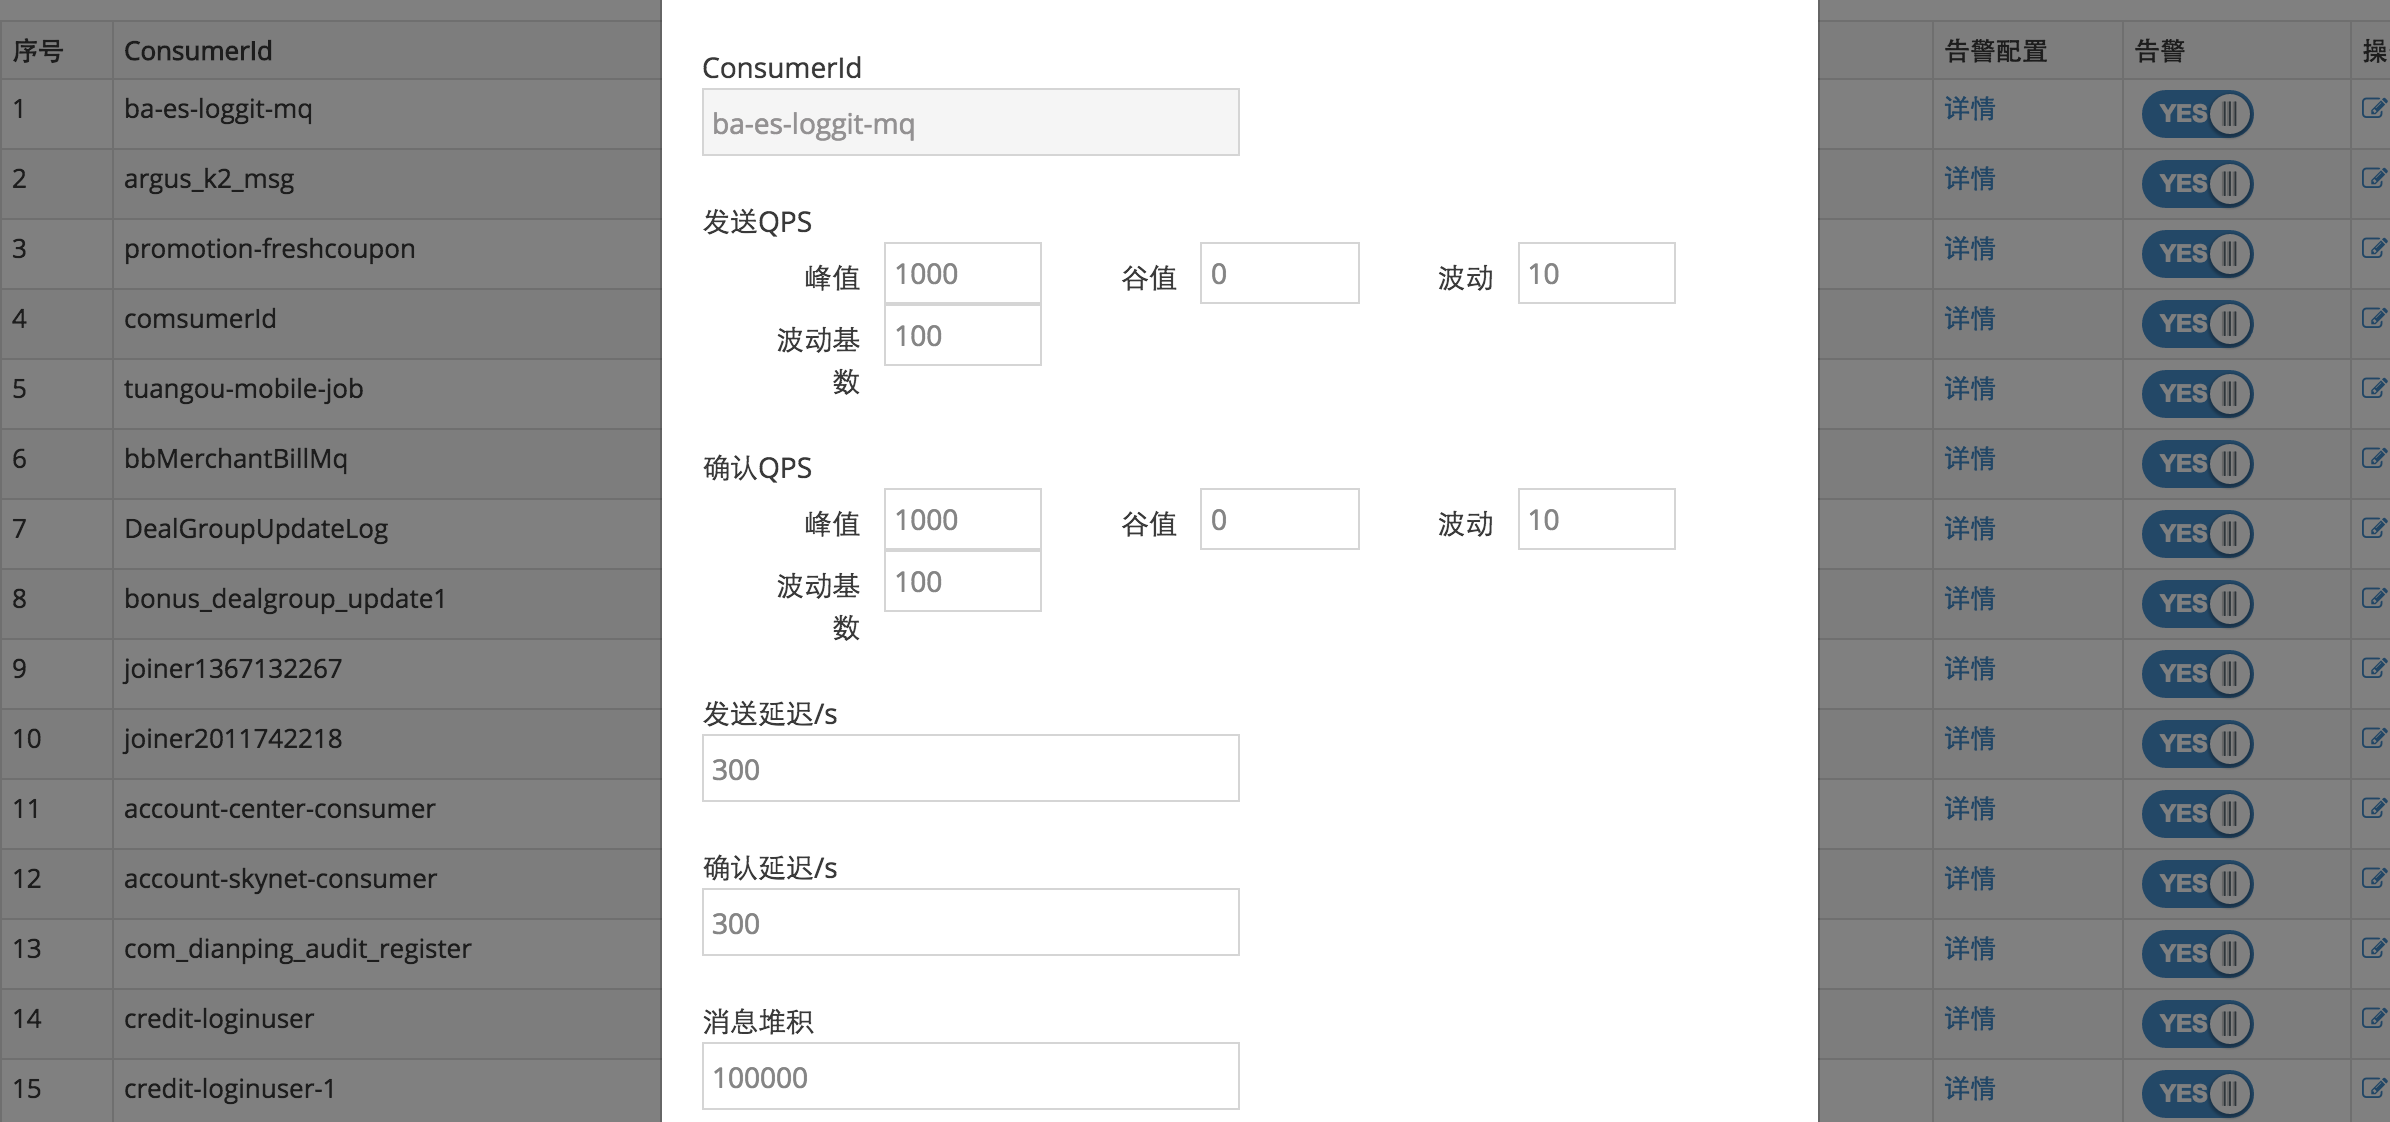
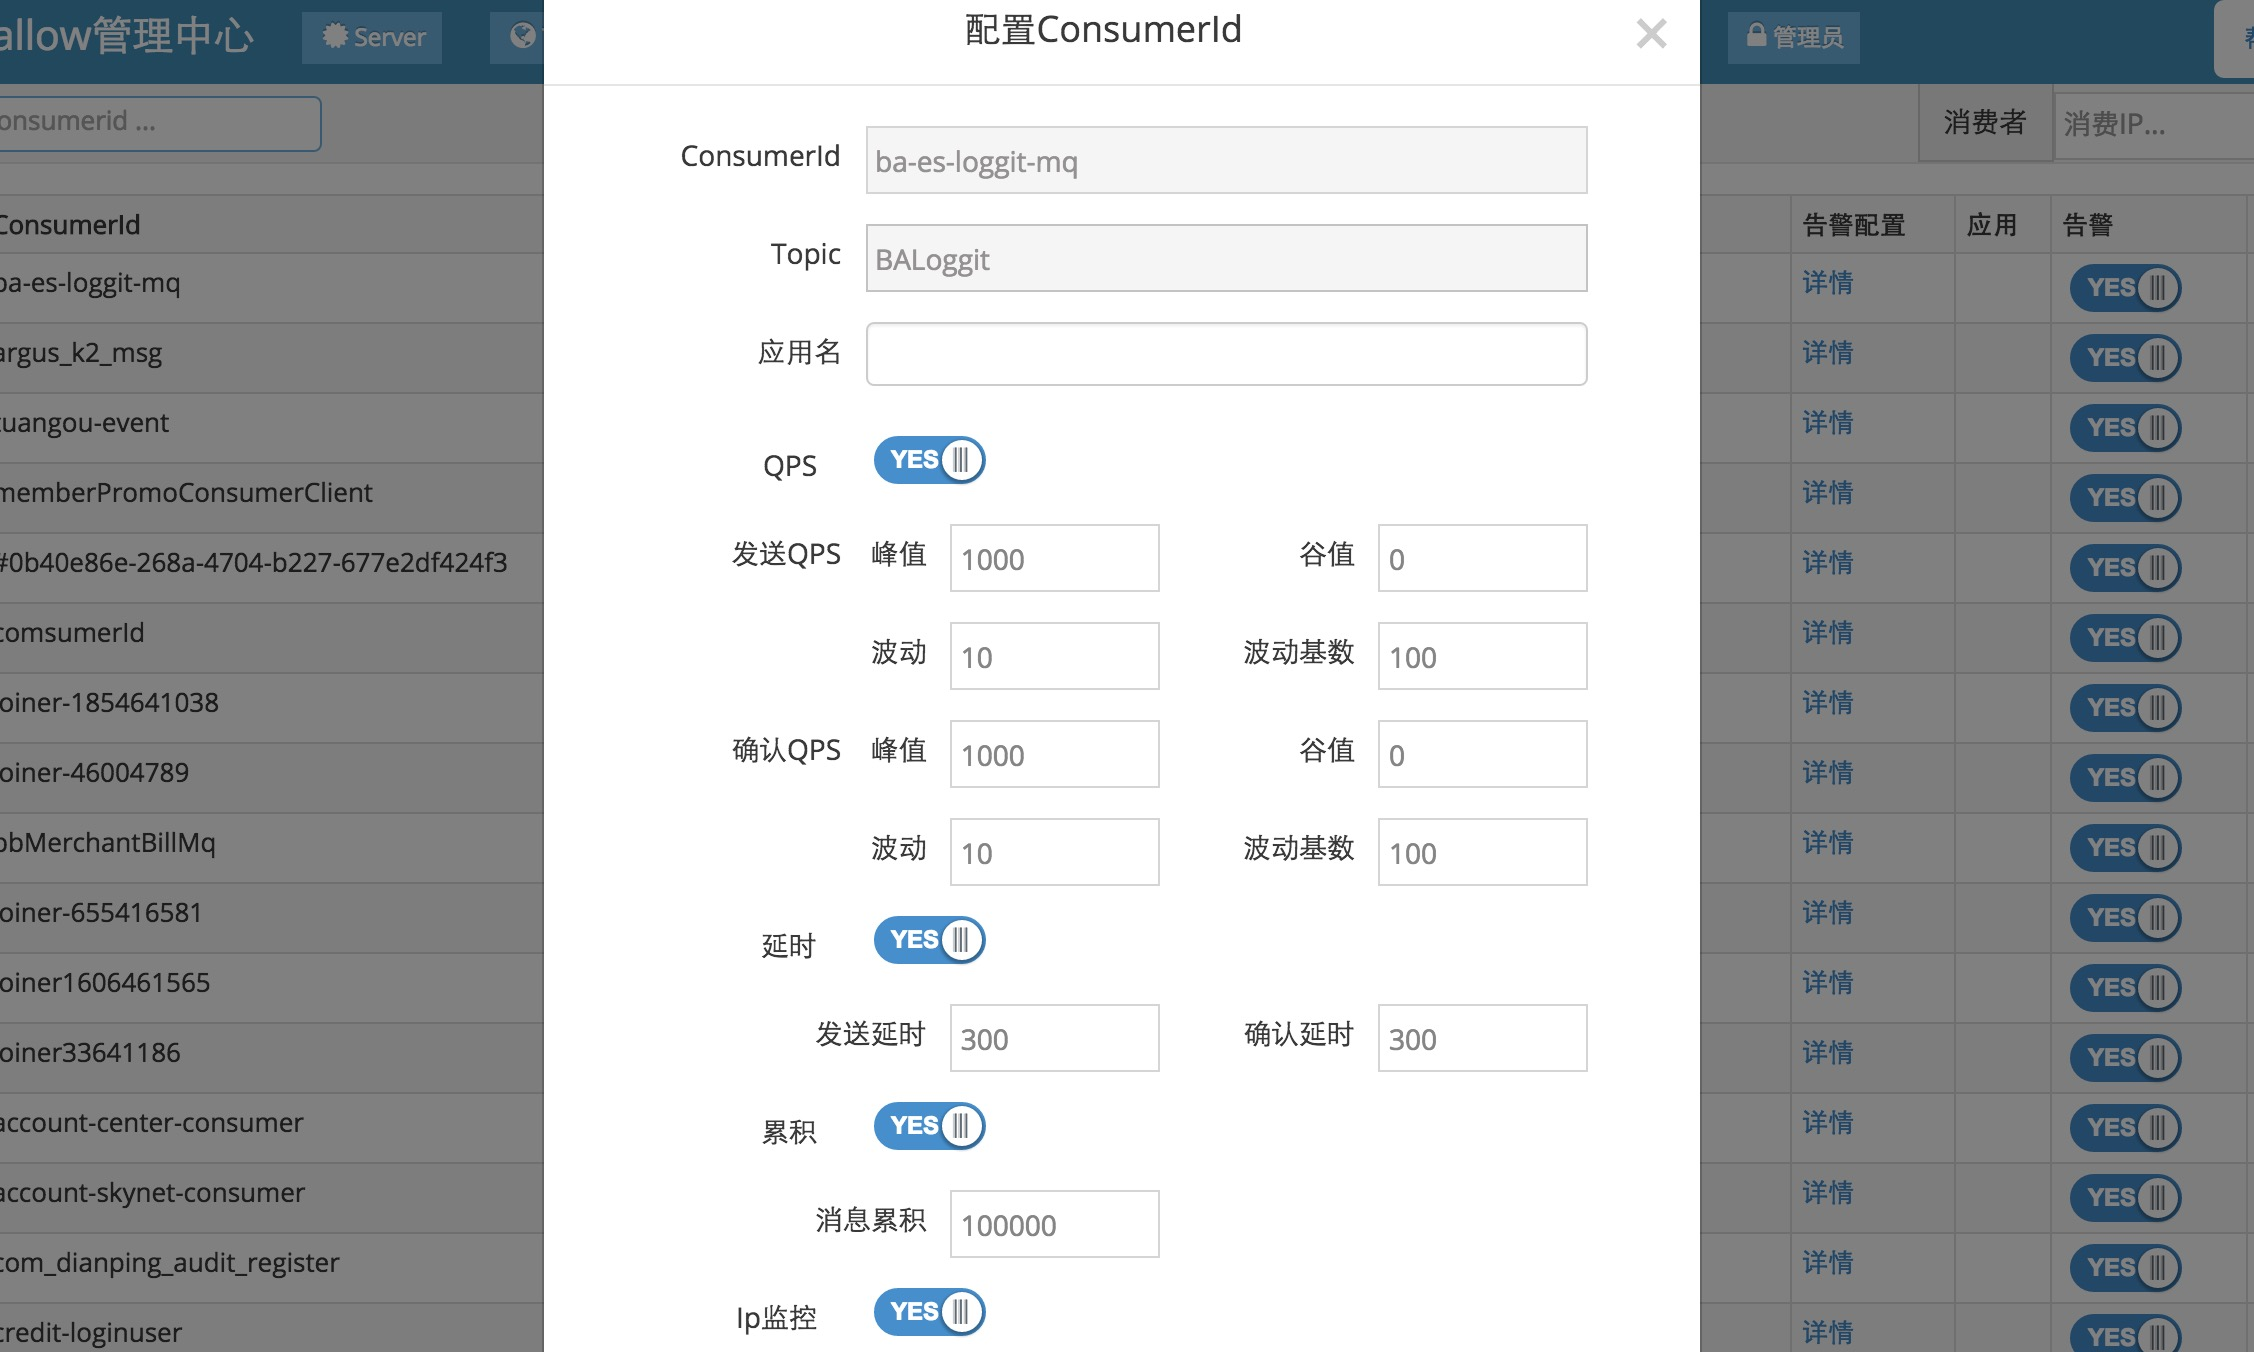
update readme.md

diff --git a/swallow-web/src/main/webapp/help/help_0.8.1-SNAPSHOT.html b/swallow-web/src/main/webapp/help/help_0.8.1-SNAPSHOT.html
@@ -2000,9 +2000,9 @@ public static void main(String[] args) {
 </li>
 <li>
 <p>告警配置</p>
-<p>根据业务自身的情况，可以设置对应topic的告警配置（需要有该topic的权限，若没有，可通过<a href="http://workflow.dp/wfe/start/119">workflow</a>进行申请），可以修改默认的告警配置值。如下图，针对峰值、谷值、波动、波动基数、延时的参数设置。其中峰值是指Qps的最高值，大于此值报警；谷值是指Qps的最低值，小于此值报警；波动是指当前Qps和前一天此时刻前后5分钟的Qps平均值之间的倍数大小；波动基数，前面两个Qps至少有一个大于波动基数值，才进行波动比较；延时是指存储延时，是指消息发出到存入Swallow这段时间差，超过设定的值，就会告警。<br />
+<p>根据业务自身的情况，可以设置对应topic的告警配置（需要有该topic的权限，若没有，可通过<a href="http://workflow.dp/wfe/start/119">workflow</a>进行申请），可以修改默认的告警配置值。如下图，针对峰值、谷值、波动、波动基数、延时的参数设置。其中峰值是指Qps的最高值，大于此值报警；谷值是指Qps的最低值，小于此值报警；波动是指当前Qps和前一天此时刻前后5分钟的Qps平均值之间的倍数大小；波动基数，前面两个Qps至少有一个大于波动基数值，才进行波动比较；延时是指存储延时，是指消息发出到存入Swallow这段时间差，超过设定的值，就会告警。各类告警都有相应的开关，可根据业务情况进行设置，如IP监控开关是设置是否进行IP告警（针对此topic生产集群中所有的消息生产机器进行监控告警）。<br />
 <img alt="Topic报警参数" src="http://swallow.dp/help/document/img/topic-alarm-setting.png" /></p>
-<p>对topic告警还有开关设置，可以打开或关闭告警。如下图，对Topic告警开关，有发送告警（产生此topic消息的生产端）、接收告警（所有消费此topic的所有消费端）开关，分别针对Topic的发送端、接收端异常告警的开关。<br />
+<p>对topic告警还有总开关设置，可以打开或关闭告警。如下图，对Topic告警开关，有发送告警（产生此topic消息的生产端）、接收告警（所有消费此topic的所有消费端）开关，分别针对Topic的发送端、接收端异常告警的开关。<br />
 <img alt="Topic报警开关" src="http://swallow.dp/help/document/img/topic-alarm-switch.png" /></p>
 <p>另外，由于swallow告警是通过消息发送，接收端的ip从cmdb拉取告警人信息，进行告警，可能某个topic相关的发送ip不想要告警，也只可以设置这个topic某个ip的开关。如下图<br />
 <img alt="Topic ip报警开关" src="http://swallow.dp/help/document/img/topic-ip-alarm-switch.png" /></p>
@@ -2049,9 +2049,9 @@ public static void main(String[] args) {
 </li>
 <li>
 <p>告警配置</p>
-<p>根据业务自身的情况，可以设置对应ConsumerId的告警配置（需要有相关topic的权限，若没有，可通过<a href="http://workflow.dp/wfe/start/119">workflow</a>进行申请），可以修改默认的告警配置值。如下图，针对峰值、谷值、波动、波动基数、延时、累积的参数设置。这些参数根据消息消费流程分成两个过程：发送过程（swallow从存储取消息到发送消息给消费端这段过程）；Ack过程（swallow服务端发送消息到客户端消费完消息给服务端回馈这段过程）。这两段分别有对应的峰值、谷值、波动、延时。这些含义类似于Topic告警参数，详情可看Topic告警参数，其中累积是指swallow服务端消息的累积量，若大于设定的值，则报警。<br />
+<p>根据业务自身的情况，可以设置对应ConsumerId的告警配置（需要有相关topic的权限，若没有，可通过<a href="http://workflow.dp/wfe/start/119">workflow</a>进行申请），可以修改默认的告警配置值。如下图，针对峰值、谷值、波动、波动基数、延时、累积的参数设置。这些参数根据消息消费流程分成两个过程：发送过程（swallow从存储取消息到发送消息给消费端这段过程）；Ack过程（swallow服务端发送消息到客户端消费完消息给服务端回馈这段过程）。这两段分别有对应的峰值、谷值、波动、延时。这些含义类似于Topic告警参数，详情可看Topic告警参数，其中累积是指swallow服务端消息的累积量，若大于设定的值，则报警。各类告警都有相应的开关，可根据业务情况进行设置，如IP监控开关是设置是否进行IP告警（针对此consumerid消费集群中所有的消费机器进行监控告警）。<br />
 <img alt="ConsumerId报警参数" src="http://swallow.dp/help/document/img/consumerId-alarm-setting.png" /></p>
-<p>对ConsumerId告警还有开关设置，可打开或关闭告警，如下图。<br />
+<p>对ConsumerId告警还有总开关设置，可打开或关闭告警，如下图。<br />
 <img alt="ConsumerId报警开关" src="http://swallow.dp/help/document/img/consumerId-alarm-switch.png" /></p>
 <p>另外，由于swallow告警是通过消息发送，接收端的ip从cmdb拉取告警人信息，进行告警，可能某个consumerId相关的消费ip不想要告警，也只可以设置这个consumerId的某个ip的开关。如下图<br />
 <img alt="ConsumerId ip报警开关" src="http://swallow.dp/help/document/img/consumerId-ip-alarm-switch.png" /></p>
@@ -2061,21 +2061,21 @@ public static void main(String[] args) {
 <ol>
 <li>
 <p>producer ip告警（针对消息的生产者）</p>
-<p>producer ip告警定位到生产者主机，根据统计数据判断主机是否宕机，一种告警类型：</p>
+<p>producer ip告警定位到生产者主机，根据生产集群中的消息产生情况，判断主机是否发生故障。有一种告警类型：</p>
 <ul>
 <li>[1022]PRODUCER_CLIENT_SENDER，producer client一段时间未发送消息。</li>
 </ul>
 </li>
 <li>
 <p>consumer ip告警（针对消息的消费者）</p>
-<p>consumer ip告警定位到消费者主机，根据统计数据判断主机是否宕机，一种告警类型：</p>
+<p>consumer ip告警定位到消费者主机，根据消费集群中的消息消费情况，判断主机是否发生故障。有一种告警类型：</p>
 <ul>
 <li>[1023]CONSUMER_CLIENT_RECEIVER，consumer client一段时间未接收消息。</li>
 </ul>
 </li>
 <li>
 <p>告警配置</p>
-<p>这些告警的ip都来源于某个topic（生产端）或者某个consumerId（消费端），因此可以到topic或者consumerId处设置相关ip可是否需要告警。设置过程如topic或consumerId告警配置中设置具体ip开关。</p>
+<p>这些告警的ip都来源于某个topic（生产端）或者某个consumerId（消费端），因此可以到topic或者consumerId告警配置处设置ip监控是否需要告警，另外Ip 配置中还可以配置具体某个ip是否需要告警，设置过程如topic或consumerId告警配置中设置具体ip开关。</p>
 </li>
 </ol>
 <h2 id="swallow_6"><a name="user-content-swallow_6" href="#swallow_6" class="headeranchor-link" aria-hidden="true"><span class="headeranchor"></span></a>Swallow 大盘</h2>

diff --git a/swallow-web/src/main/webapp/WEB-INF/views/message/index.htm b/swallow-web/src/main/webapp/WEB-INF/views/message/index.htm
@@ -344,7 +344,7 @@
                                 </div>
                             </div>
                             <div class="control-group" ng-show="consumerDetails">
-                                <label class="control-label">消费IP配置</label>
+                                <label class="control-label">消费详情</label>
 
                                 <table
                                         class="table table-bordered table-striped  table-condensed table-hover">
